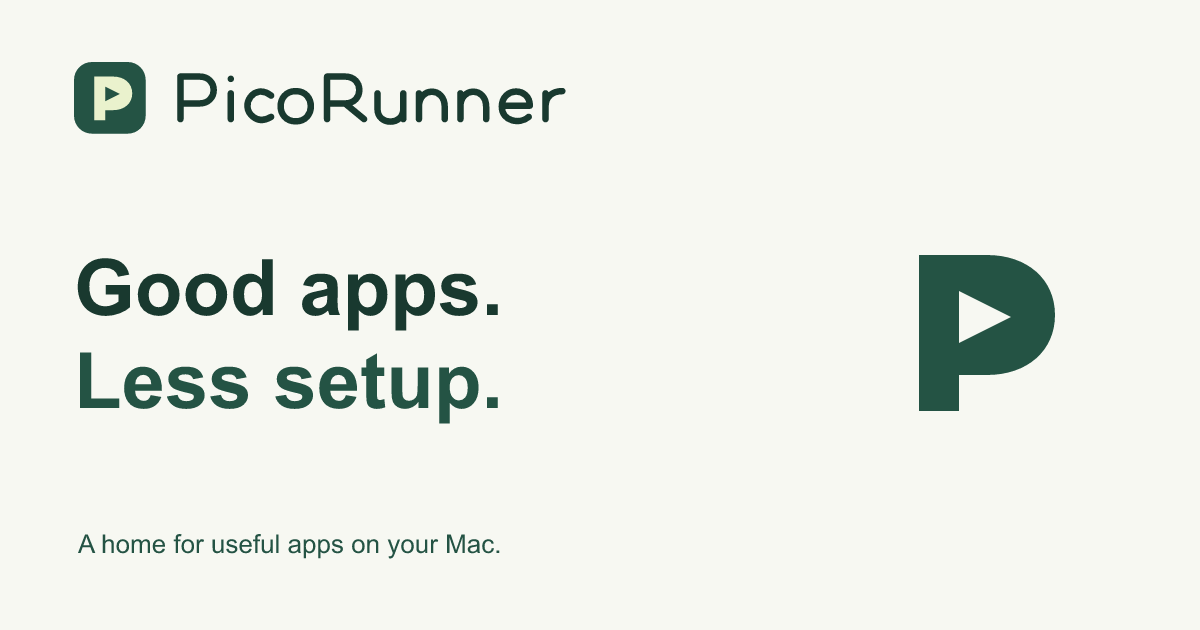
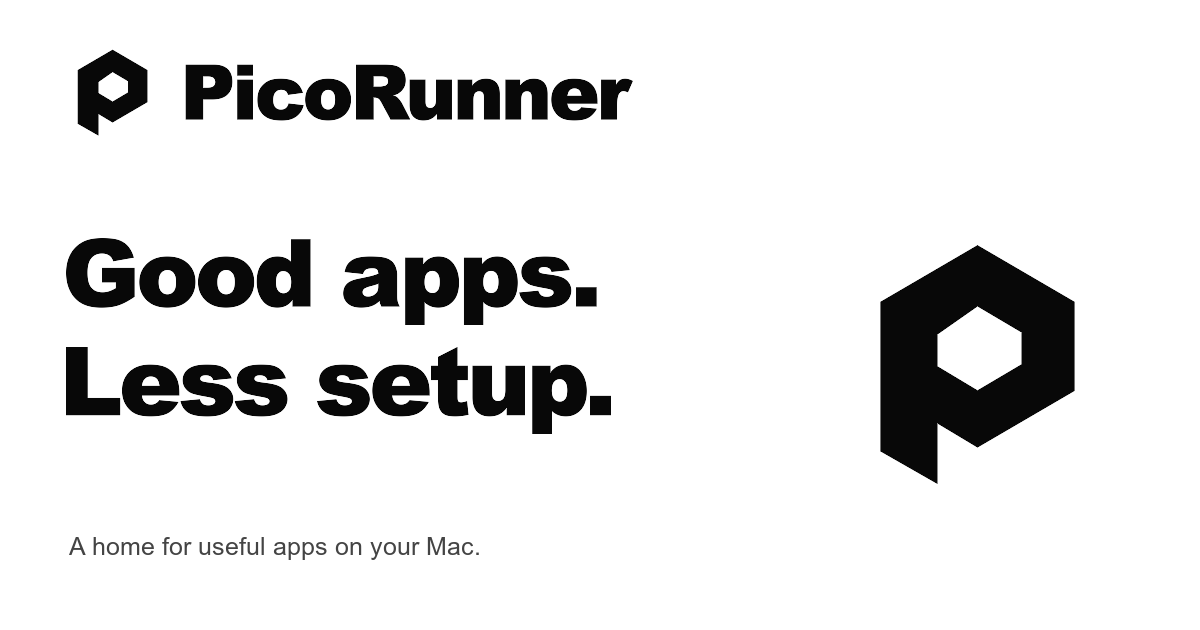
Apply approved Folded P identity across PicoRunner website

diff --git a/design/brand-v2/outline-type.swift b/design/brand-v2/outline-type.swift
@@ -1,0 +1,44 @@
+import Foundation
+import CoreText
+import CoreGraphics
+
+// Generate vector lettering using the locally licensed font. No font is embedded.
+let phrase = CommandLine.arguments.count > 1 ? CommandLine.arguments[1] : "PICORUNNER"
+let font = CTFontCreateWithName("Arial-Black" as CFString, 128, nil)
+let attributes: [NSAttributedString.Key: Any] = [
+  NSAttributedString.Key(kCTFontAttributeName as String): font,
+  NSAttributedString.Key(kCTKernAttributeName as String): -4.5,
+]
+let line = CTLineCreateWithAttributedString(NSAttributedString(string: phrase, attributes: attributes))
+let combined = CGMutablePath()
+for runValue in CTLineGetGlyphRuns(line) as! [CTRun] {
+  let count = CTRunGetGlyphCount(runValue)
+  var glyphs = [CGGlyph](repeating: 0, count: count)
+  var positions = [CGPoint](repeating: .zero, count: count)
+  CTRunGetGlyphs(runValue, CFRange(location: 0, length: 0), &glyphs)
+  CTRunGetPositions(runValue, CFRange(location: 0, length: 0), &positions)
+  for i in 0..<count {
+    if let path = CTFontCreatePathForGlyph(font, glyphs[i], nil) {
+      combined.addPath(path, transform: CGAffineTransform(translationX: positions[i].x, y: positions[i].y))
+    }
+  }
+}
+let box = combined.boundingBoxOfPath
+let translated = CGMutablePath()
+translated.addPath(combined, transform: CGAffineTransform(a: 1, b: 0, c: 0, d: -1, tx: -box.minX, ty: box.maxY))
+func point(_ p: CGPoint) -> String { String(format: "%.3f %.3f", p.x, p.y) }
+var commands: [String] = []
+translated.applyWithBlock { raw in
+  let e = raw.pointee
+  switch e.type {
+  case .moveToPoint: commands.append("M" + point(e.points[0]))
+  case .addLineToPoint: commands.append("L" + point(e.points[0]))
+  case .addQuadCurveToPoint: commands.append("Q" + point(e.points[0]) + " " + point(e.points[1]))
+  case .addCurveToPoint: commands.append("C" + point(e.points[0]) + " " + point(e.points[1]) + " " + point(e.points[2]))
+  case .closeSubpath: commands.append("Z")
+  @unknown default: break
+  }
+}
+let output: [String: Any] = ["width": box.width, "height": box.height, "path": commands.joined(separator: " "), "font": CTFontCopyPostScriptName(font)]
+let data = try JSONSerialization.data(withJSONObject: output, options: [.sortedKeys])
+print(String(data: data, encoding: .utf8)!)

diff --git a/BRAND.md b/BRAND.md
@@ -1,32 +1,38 @@
 # PicoRunner identity
 
-Use **PicoRunner** in visible copy and **picorunner.com** for public web links.
+Use **PicoRunner** in visible copy and **picorunner.com** for public links.
 The desktop bundle identifier is `com.bigmints.picorunner`.
 
-The original geometric wordmark and P/play symbol are path-based SVGs generated
-by `node scripts/build-brand.mjs`. Do not substitute a typed font for the logo.
-Use the complete lockup in navigation, the wordmark in About, and the symbol or
-rounded icon where space is limited. Keep artwork proportions unchanged.
+The approved identity is **Folded P**: an original geometric P with heavy
+mixed-case lettering. Primary artwork is black (`#080808`) on white; use the
+white reverse version on dark backgrounds. Keep the wordmark transparent.
+Do not add a play triangle, colored gradient, outline, or shadow to the mark.
 
-- Pine: `#245344`
-- Dark ink: `#19392f`
-- Pale lime: `#eaf2cd`
-- Warm white: `#f7f8f2`
+The lettering is stored as vector outlines in `scripts/brand/wordmark.json`.
+It was outlined from locally licensed Arial Black; no font software is
+embedded or distributed. It has no runtime font dependency.
 
-`site/brand` is the vector source of truth. The desktop uses copies in
-`node-launcher/public/brand`; its sidebar mark is `public/picorunner-mark.svg`.
-After updating the vectors, copy them to those locations and run
-`pnpm tauri icon public/brand/app-icon.svg` in the desktop repository. The
-app icon includes its own macOS-safe inset. Tray artwork is a monochrome,
-36-by-36 RGBA rendering of `symbol.svg`.
+Regenerate SVGs with:
 
-The share image is `site/brand/social-card.png` at 1200 by 630 pixels.
-Render SVG strokes with a browser or the Tauri SVG rasterizer: ImageMagick's
-SVG reader can omit the wordmark strokes. To reproduce the existing PNG,
-copy `social-card.svg` to a temporary file with a 1200-by-1200 viewBox,
-run `pnpm tauri icon /tmp/picorunner-social-square.svg -p 1200 -o /tmp/picorunner-social-render`
-in the desktop repository, then crop the resulting PNG to the top 1200 by 630
-pixels. Inspect the output before committing it.
+```sh
+node scripts/build-brand.mjs
+```
 
-Historical repository names and the legacy `oven://` protocol remain for
-compatibility. They must not replace PicoRunner in product-facing copy.
+With ImageMagick installed, regenerate PNGs and synchronize the desktop:
+
+```sh
+node scripts/render-brand.mjs --desktop ../node-launcher
+```
+
+This copies shared SVGs, regenerates the transparent 36-by-36 RGBA tray
+silhouette, and invokes Tauri's icon builder. A desktop build and new signing/
+notarization are required after changing its icons or embedded assets.
+
+Use `lockup.svg` in website navigation, `wordmark.svg` in About, and
+`icon.svg` in compact app UI. `app-icon.svg` contains its own macOS-safe
+inset. The share card is `social-card.png` at 1200 by 630 pixels.
+
+The selected concept and its exploration board are archived in
+`design/brand-v2`. The canonical production artwork is `site/brand`.
+Historical repository names and the legacy `oven://` protocol remain only
+for compatibility.

diff --git a/design/brand-v2/README.md b/design/brand-v2/README.md
@@ -1,0 +1,21 @@
+# PicoRunner identity revision
+
+The first thin, rounded logo was rejected. The new direction follows the
+user's reference: strong typography, solid black geometry, sharp corners,
+and effective monochrome reproduction. The reference was not traced.
+
+The user selected **02 — Folded P**. This folder preserves both concepts:
+
+1. **Forward:** an angular, forward-leaning R with heavy uppercase lettering.
+2. **Folded P:** a geometric P constructed from solid planes with heavy
+   mixed-case lettering. Recommended for its connection to PicoRunner and
+   the reference's compact, architectural character.
+
+`directions.svg` and `directions.png` compare primary, inverse, app-icon, and
+small-size uses. Individual symbols, wordmarks, lockups, and app icons are
+provided as SVG. Lettering is outlined from the locally licensed Arial Black;
+the files do not embed or distribute the font software.
+
+Run the Swift helper to regenerate outlined text, then
+`node design/brand-v2/build-concepts.mjs` to rebuild the SVG concepts.
+Production assets are generated by `scripts/build-brand.mjs` and `scripts/render-brand.mjs`. Folded P is applied to the website and desktop. The release candidate is rebuilt after embedded artwork changes.
